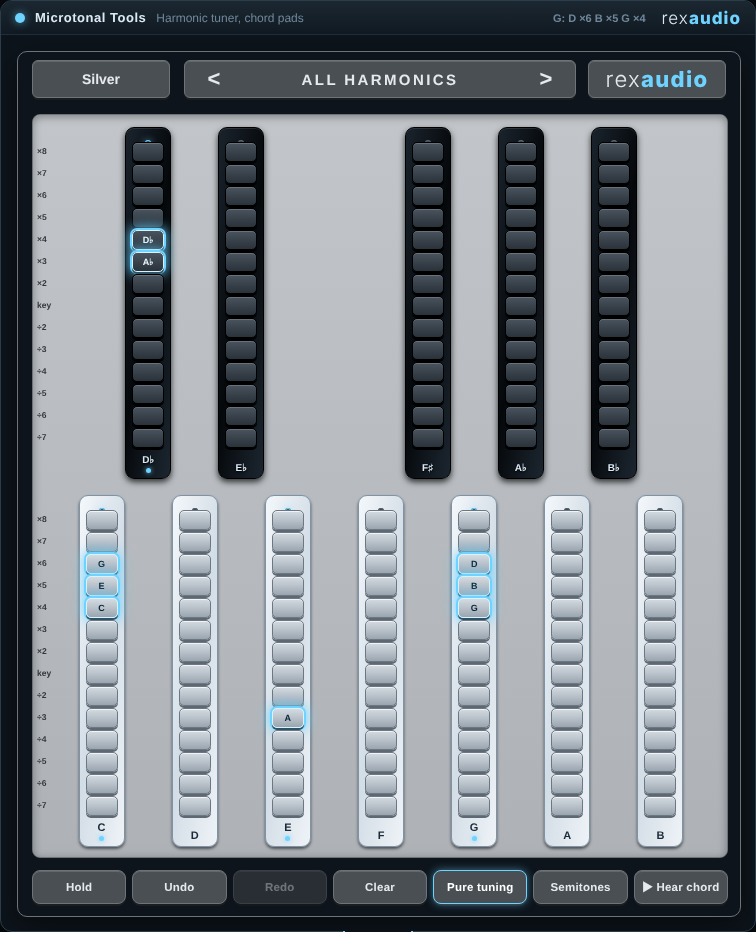
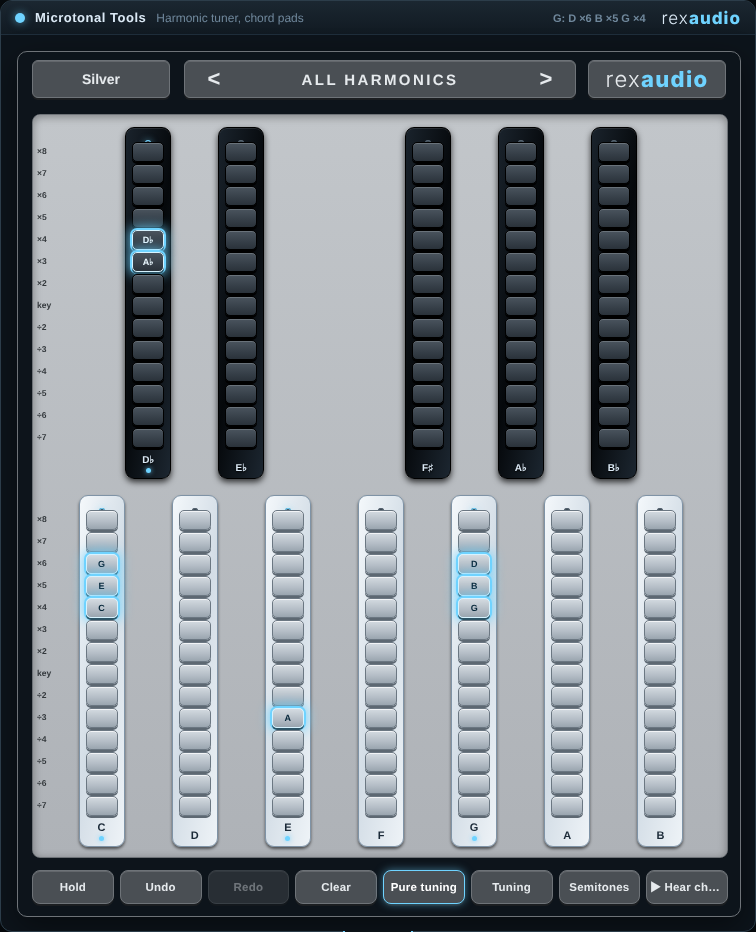
Pads keyboard: Tuning vs Chords mode
Claude-Session: https://claude.ai/code/session_01Mq2GKQqtKS2SjuN1U1snRm

Changed region(s): [[0.4868, 0.9024, 0.9431, 0.9957], [0.1521, 0.9335, 0.4563, 0.9957], [0.0913, 0.9335, 0.1217, 0.9646]]

diff --git a/harmonic-tuner-pads.html b/harmonic-tuner-pads.html
@@ -250,7 +250,7 @@ const RV = [Array.from({ length: 14 }, (_, i) => 14 - i), [1].concat(Array.from(
 const WI = { 0: 0, 2: 1, 4: 2, 5: 3, 7: 4, 9: 5, 11: 6 };
 const keyX = c => BLACK.has(c) ? PAD + (WI[c - 1] + 1) * PITCH : PAD + (WI[c] + .5) * PITCH, keyY = c => BLACK.has(c) ? 12 : 380;
 const blank = () => Array.from({ length: 12 }, () => []);
-const S = { sel: blank(), oct: 0, pure: true, fund: true, hold: false, pre: 0, fifths: false, view: 2, panel: 2, micro: Array(12).fill(null), man: Array(12).fill(0) };
+const S = { sel: blank(), oct: 0, pure: true, fund: true, hold: false, pre: 0, fifths: false, view: 2, panel: 2, kmode: 0, micro: Array(12).fill(null), man: Array(12).fill(0) };
 const pcOf = c => S.fifths ? (7 * c) % 12 : c, slotOf = p => S.fifths ? (7 * p) % 12 : p;   // the keys can be semitones or fifths: a column's pitch class
 const VIEWS = ["Overtones", "Undertones", "All harmonics", "Microtones", "Manual pitch"], vis = k => S.view < 3 && RV[S.view].includes(k);
 // Microtones (set 1): the simplest just ratios between a key's two neighbours' just tunings, up to ten per key, highest pitch first
@@ -279,8 +279,8 @@ const PANELS = [
   ["Slate", "#2b333c", "#20272f", "#38434e", "#2b343e", "#232e39", "#242d37", "#b0bdc9"]
 ];
 try { const raw = localStorage.getItem("rex-harmonic-pads-panel-v2"), pn = +raw; if (raw !== null && pn >= 0 && pn < PANELS.length) S.panel = pn; } catch (e) {}
-try { const o = JSON.parse(localStorage.getItem("rex-harmonic-tuner-pads-v1")); if (o) { if (Array.isArray(o.sel) && o.sel.length === 12) S.sel = o.sel.map(a => a.filter(k => Number.isInteger(k) && k >= -14 && k <= 14 && k !== 0 && k !== -1)); S.pure = o.pure !== false; if (o.view >= 0 && o.view < 5) S.view = o.view; S.fifths = o.fifths === true; if (Array.isArray(o.micro) && o.micro.length === 12) S.micro = o.micro; if (Array.isArray(o.man) && o.man.length === 12) S.man = o.man.map(x => Math.max(-50, Math.min(50, +x || 0))); } } catch (e) {}
-const save = () => { try { localStorage.setItem("rex-harmonic-tuner-pads-v1", JSON.stringify({ sel: S.sel, oct: S.oct, pure: S.pure, fund: S.fund, view: S.view, fifths: S.fifths, micro: S.micro, man: S.man, panel: S.panel })); localStorage.setItem("rex-harmonic-pads-panel-v2", S.panel); } catch (e) {} };
+try { const o = JSON.parse(localStorage.getItem("rex-harmonic-tuner-pads-v1")); if (o) { if (Array.isArray(o.sel) && o.sel.length === 12) S.sel = o.sel.map(a => a.filter(k => Number.isInteger(k) && k >= -14 && k <= 14 && k !== 0 && k !== -1)); S.pure = o.pure !== false; if (o.view >= 0 && o.view < 5) S.view = o.view; S.fifths = o.fifths === true; S.kmode = o.kmode ? 1 : 0; if (Array.isArray(o.micro) && o.micro.length === 12) S.micro = o.micro; if (Array.isArray(o.man) && o.man.length === 12) S.man = o.man.map(x => Math.max(-50, Math.min(50, +x || 0))); } } catch (e) {}
+const save = () => { try { localStorage.setItem("rex-harmonic-tuner-pads-v1", JSON.stringify({ sel: S.sel, oct: S.oct, pure: S.pure, fund: S.fund, view: S.view, fifths: S.fifths, micro: S.micro, man: S.man, panel: S.panel, kmode: S.kmode })); localStorage.setItem("rex-harmonic-pads-panel-v2", S.panel); } catch (e) {} };
 let hist = [], fut = [];
 const snap = () => JSON.stringify(S.sel);
 const commit = before => { if (snap() !== before) { hist.push(before); if (hist.length > 100) hist.shift(); fut = []; } };
@@ -399,10 +399,10 @@ function notesOf(c, ks) {
 }
 function blip(c, k) { audio(); voice(notesOf(c, [k])[0], .7, 1, 700); }
 const held = new Map(), latched = new Set();
-function down(id, c, vel, oc = 0) {
+function down(id, c, vel, oc = 0, n = null) {
   audio();
   if (S.hold && latched.has(c)) { latched.delete(c); stopCol(c); return; }
-  up(id, true); const ps = keyNotes(c, S.sel[c]).map(p => p + 12 * oc); held.set(id, { c, vs: ps.map(p => voice(p, vel, ps.length)) });
+  up(id, true); let ps = null; if (S.kmode && n != null) { const ch = chordMidis(false); if (ch.length) { const sh = n + 12 * S.oct - ch[0]; ps = ch.map(p => p + sh); } } if (!ps) ps = keyNotes(c, S.sel[c]).map(p => p + 12 * oc); held.set(id, { c, vs: ps.map(p => voice(p, vel, ps.length)) });
   setDown(c, 1); readout(c); if (S.hold) latched.add(c);
 }
 function stopCol(c) { [...held.entries()].forEach(([id, h]) => { if (h.c === c) { held.delete(id); h.vs.forEach(v => v.stop()); } }); setDown(c, 0); }
@@ -425,8 +425,10 @@ bot("Undo", () => { if (!hist.length) return; fut.push(snap()); S.sel = JSON.par
 bot("Redo", () => { if (!fut.length) return; hist.push(snap()); S.sel = JSON.parse(fut.pop()); paint(); save(); }, "bRedo");
 bot("Clear", () => { const b0 = snap(); S.sel = blank(); S.micro = Array(12).fill(null); S.man = Array(12).fill(0); commit(b0); $("#read").textContent = ""; paint(); save(); }, "bClear");
 bot("Pure tuning", () => { S.pure = !S.pure; paint(); save(); }, "bTune");
+bot("Tuning", () => { S.kmode = S.kmode ? 0 : 1; paint(); save(); $("#read").textContent = S.kmode ? "Keyboard now makes chords: the chord on the pads, with its lowest note on the key you press" : "Keyboard now plays the tuning: each key sounds its own pads"; }, "bKmode");
 bot("Semitones", () => { S.fifths = !S.fifths; paint(); save(); $("#read").textContent = S.fifths ? "Keys are now fifths: C G D A E B F♯ …" : ""; }, "bFifths");
 bot("▶ Hear chord", hear, "bHear");
+syncFns.push(() => { $("#bKmode").textContent = S.kmode ? "Chords" : "Tuning"; $("#bKmode").title = S.kmode ? "Keyboard makes chords from the pads in hand" : "Keyboard plays the tuning: each key sounds its own pads"; $("#bKmode").setAttribute("aria-pressed", String(!!S.kmode)); });
 syncFns.push(() => { $("#bFifths").textContent = S.fifths ? "Fifths" : "Semitones"; $("#bFifths").setAttribute("aria-pressed", String(S.fifths)); });
 syncFns.push(() => { applyPanel(); $("#vName").textContent = VIEWS[S.view]; });
 $("#vPrev").onclick = () => { S.view = (S.view + 4) % 5; paint(); save(); $("#read").textContent = ""; };
@@ -437,7 +439,7 @@ syncFns.push(() => { $("#bTune").textContent = S.pure ? "Pure tuning" : "12-TET"
 const kbd = $("#kbd"), WK = [0, 2, 4, 5, 7, 9, 11], BK = { 0: 1, 1: 3, 3: 6, 4: 8, 5: 10 };
 for (let o = 0; o < 2; o++) WK.forEach(c => { const k = document.createElement("div"); k.className = "dk"; k.dataset.c = c; k.dataset.o = o; if (c === 0) k.textContent = "C" + (3 + o); else k.textContent = NAMES[c]; kbd.appendChild(k); kbEls[c].push(k); });
 for (let o = 0; o < 2; o++) Object.keys(BK).forEach(i => { const c = BK[i], k = document.createElement("div"); k.className = "bk"; k.dataset.c = c; k.dataset.o = o; k.style.left = ((o * 7 + +i + 1) * 100 / 14 - 2.4) + "%"; k.style.width = "4.8%"; kbd.appendChild(k); kbEls[c].push(k); });
-kbd.addEventListener("pointerdown", e => { const k = e.target.closest(".dk, .bk"); if (!k) return; e.preventDefault(); try { k.setPointerCapture(e.pointerId); } catch (x) {} down("b" + e.pointerId, +k.dataset.c, .8, +k.dataset.o); });
+kbd.addEventListener("pointerdown", e => { const k = e.target.closest(".dk, .bk"); if (!k) return; e.preventDefault(); try { k.setPointerCapture(e.pointerId); } catch (x) {} down("b" + e.pointerId, +k.dataset.c, .8, +k.dataset.o, 48 + 12 * +k.dataset.o + pcOf(+k.dataset.c)); });
 ["pointerup", "pointercancel"].forEach(ev => kbd.addEventListener(ev, e => up("b" + e.pointerId)));
 function drag(el, step, onStep) { let y0 = null, a = 0; el.addEventListener("pointerdown", e => { e.preventDefault(); el.setPointerCapture(e.pointerId); y0 = e.clientY; a = 0; }); el.addEventListener("pointermove", e => { if (y0 == null) return; const sc = el.getBoundingClientRect().height / el.offsetHeight || 1, n = Math.trunc((y0 - e.clientY) / (step * sc)); if (n !== a) { onStep(n - a); a = n; } }); ["pointerup", "pointercancel"].forEach(ev => el.addEventListener(ev, () => { y0 = null; })); }
 drag($("#knob"), 14, d => { S.view = (S.view + d + 50) % 5; paint(); save(); $("#read").textContent = ""; });
@@ -453,7 +455,7 @@ let bendC = 0; function setBend(v) { v = Math.max(-1, Math.min(1, v)); bendC = v
 $("#midiBtn").onclick = () => {
   const m = $("#midiMsg"), btn = $("#midiBtn"); if (!navigator.requestMIDIAccess) { m.textContent = "This browser has no MIDI support. Use the mouse or the computer keys."; return; }
   navigator.requestMIDIAccess().then(acc => {
-    const bind = () => { let n = 0; acc.inputs.forEach(i => { n++; i.onmidimessage = e => { const [st, a, b] = e.data, cmd = st & 0xf0, o = Math.max(0, Math.min(1, Math.floor(a / 12) - 5)); if (cmd === 0x90 && b > 0) down("m" + a, slotOf(a % 12), Math.pow(b / 127, .8), Math.floor(a / 12) - 5); else if (cmd === 0x80 || (cmd === 0x90 && b === 0)) up("m" + a); else if (cmd === 0xE0) setBend(((b << 7 | a) - 8192) / 8192); }; }); btn.setAttribute("aria-pressed", String(n > 0)); m.textContent = n ? "MIDI connected: each key plays its own column; the pitch wheel bends." : "No MIDI keyboard found. Plug one in."; };
+    const bind = () => { let n = 0; acc.inputs.forEach(i => { n++; i.onmidimessage = e => { const [st, a, b] = e.data, cmd = st & 0xf0, o = Math.max(0, Math.min(1, Math.floor(a / 12) - 5)); if (cmd === 0x90 && b > 0) down("m" + a, slotOf(a % 12), Math.pow(b / 127, .8), Math.floor(a / 12) - 5, a); else if (cmd === 0x80 || (cmd === 0x90 && b === 0)) up("m" + a); else if (cmd === 0xE0) setBend(((b << 7 | a) - 8192) / 8192); }; }); btn.setAttribute("aria-pressed", String(n > 0)); m.textContent = n ? "MIDI connected: each key plays its own column; the pitch wheel bends." : "No MIDI keyboard found. Plug one in."; };
     acc.onstatechange = bind; bind();
   }).catch(() => { m.textContent = "MIDI access was blocked. Allow it in the browser to use a keyboard."; });
 };
